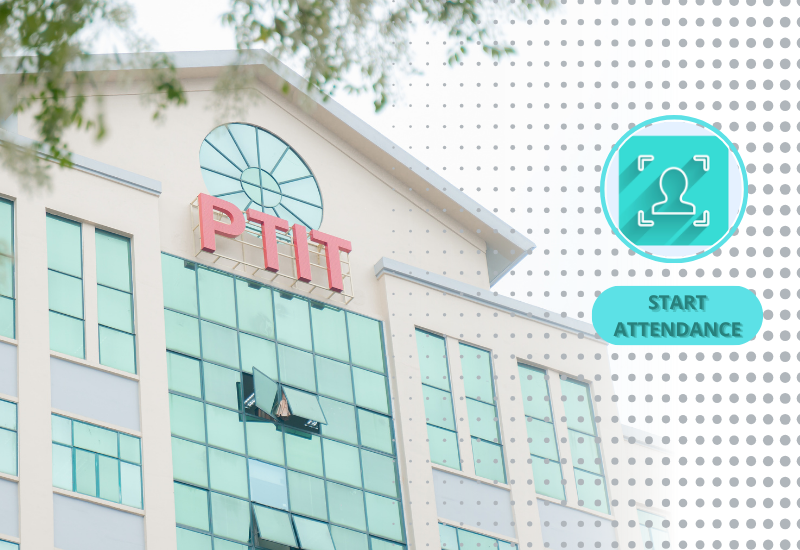
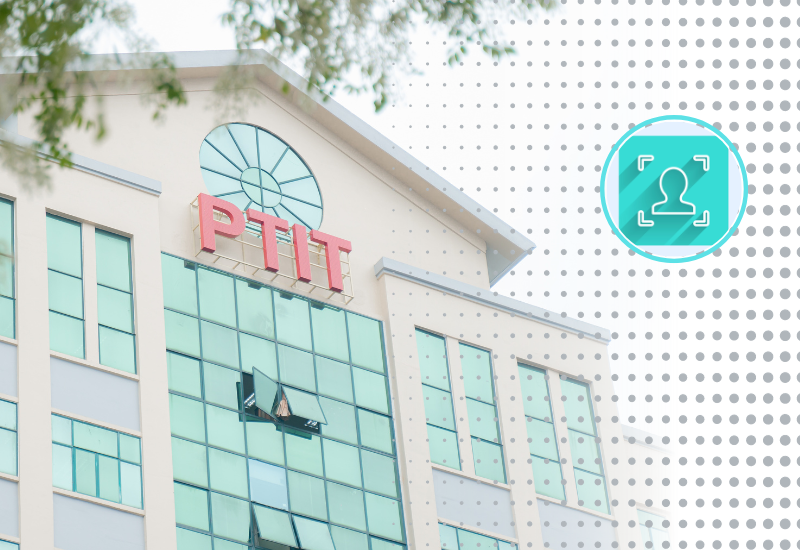
Change button location

Changed region(s): [[0.7188, 0.4945, 0.9688, 0.6491]]

diff --git a/gui.py b/gui.py
@@ -39,21 +39,29 @@ def end_clicked():
         txt_output.insert(END, item + "\n")
     play_frame.pack_forget()
 
-
-def show_clicked():
-    print("")
-
-
 def add_path():
     path = filedialog.askopenfilename()  # Hiển thị hộp thoại chọn tệp
     # Thực hiện xử lý với đường dẫn được chọn
-
-
-def show_list():
-    print()
-
 def send_mail():
     automail.send_emails()
+def open_user_manual():
+    # Provide the path to your user manual file here
+    user_manual_path = r'D:\Work_space\Attendance_Face_Recog_and_Email\application_files\user_manual.txt'
+    
+    try:
+        with open(user_manual_path, "r", encoding="utf-8") as manual_file:
+            user_manual_text = manual_file.read()
+            
+        # Create a new window to display the user manual text
+        manual_window = tk.Toplevel(app)
+        manual_window.title("User Manual")
+        
+        manual_text = Text(manual_window)
+        manual_text.pack()
+        manual_text.insert(END, user_manual_text)
+        
+    except Exception as e:
+        print(f"Error opening the user manual: {str(e)}")
 
 # ----------------------------------------------------------------------------------------------------------------------
 app = tk.Tk()
@@ -72,7 +80,6 @@ canvas.pack()
 # Tạo background trắng của màn hình 1
 bottom_frame = tk.Frame(main_frame, width=800, height=440, bg="white")
 bottom_frame.pack()
-
 # Image Button
 image = Image.open("app_images/face.jpg")
 image = image.resize((400, 296))  # Resize the image as needed
@@ -80,7 +87,6 @@ photo = ImageTk.PhotoImage(image)
 next_button = tk.Button(main_frame, image=photo, bd=0, command=screen_2)
 next_button.photo = photo
 next_button.place(relx=0.5, rely=0.55, anchor=tk.CENTER, width=400, height=290)
-
 # Logo
 image = Image.open("app_images/ptit.png")
 image = image.resize((100, 100))  # Resize the image as needed
@@ -94,8 +100,21 @@ font_title = customtkinter.CTkFont(family="Montserrat", size=22, weight="bold")
 text_label = tk.Label(main_frame, text="WELCOME TO PTIT ATTENDANCE SYSTEM",
                       font=font_title, fg="white", bg="red")
 text_label.place(relx=0.5, rely=0.1, anchor=tk.N)
-text2 =  tk.Label(main_frame, text="click anywhere to start",font=font_title, fg="white", bg="red")
-text2.place(relx=0.5, rely=0.9, anchor=tk.N)
+text2 =  tk.Label(main_frame, text="CLICK THE BUTTON TO START",font=font_title, fg="white", bg="red", anchor=tk.N)
+text2.place(relx=0.5, rely=0.8, anchor=tk.N)
+# Create a custom style for the "User Manual" button
+style = ttk.Style()
+style.configure("UserManual.TButton", 
+               foreground="red",  # Text color
+               background="#5681c7",  # Background color
+               font=("Arial", 10),  # Font style
+        
+               relief="raised"  # Button relief style
+              )
+
+user_manual_button = ttk.Button(main_frame, text="User Manual", command=open_user_manual, style="UserManual.TButton")
+user_manual_button.place(relx=0.5, rely=0.95, anchor=tk.CENTER, width=100, height=40)
+
 # -----------------------------------------------------------------------------------------------------------------
 # Màn hình thứ 2
 play_frame = tk.Frame(app, bg="red", width=800, height=600)
@@ -115,12 +134,22 @@ text_label = tk.Label(play_frame, text="PTIT ATTENDANCE SYSTEM",
 text_label.place(relx=0.5, rely=0.025, anchor=tk.N)
 
 # Start Button
-image = Image.open("app_images/image1.png")
-image = image.resize((800, 550))  # Resize the image as needed
-photo = ImageTk.PhotoImage(image)
-back_button = tk.Button(play_frame, image=photo, command=start_clicked)
-back_button.photo = photo
-back_button.place(relx=0, rely=0.1, width=800, height=550)
+# Create a Label for the background
+background_image = Image.open("app_images/image1.png")
+background_image = background_image.resize((800, 550))  # Resize the background image as needed
+background_photo = ImageTk.PhotoImage(background_image)
+background_label = tk.Label(play_frame, image=background_photo)
+background_label.photo = background_photo
+background_label.place(relx=0, rely=0.1, width=800, height=550)
+
+# Create the Start Button
+button_image = Image.open("app_images/button.png")  # Change to the desired button image
+button_photo = ImageTk.PhotoImage(button_image)
+start_button = tk.Button(play_frame, image=button_photo, command=start_clicked)
+start_button.photo = button_photo
+start_button.place(relx=0.85, rely=0.65, anchor=tk.CENTER, width=200, height=80)
+
+
 
 
 ds_vang = ttk.Button(

diff --git a/application_files/main.py b/application_files/main.py
@@ -185,7 +185,7 @@ def main():
                                 cv2.FONT_HERSHEY_COMPLEX, 1, (255, 255, 255), 2)
 
                     
-            cv2.imshow('Diem danh', img)
+            cv2.imshow('CHECKING ATTENDANCE | PRESS Q TO EXIT', img)
             if cv2.waitKey(1) & 0xFF == ord('q'):
                 break
 
